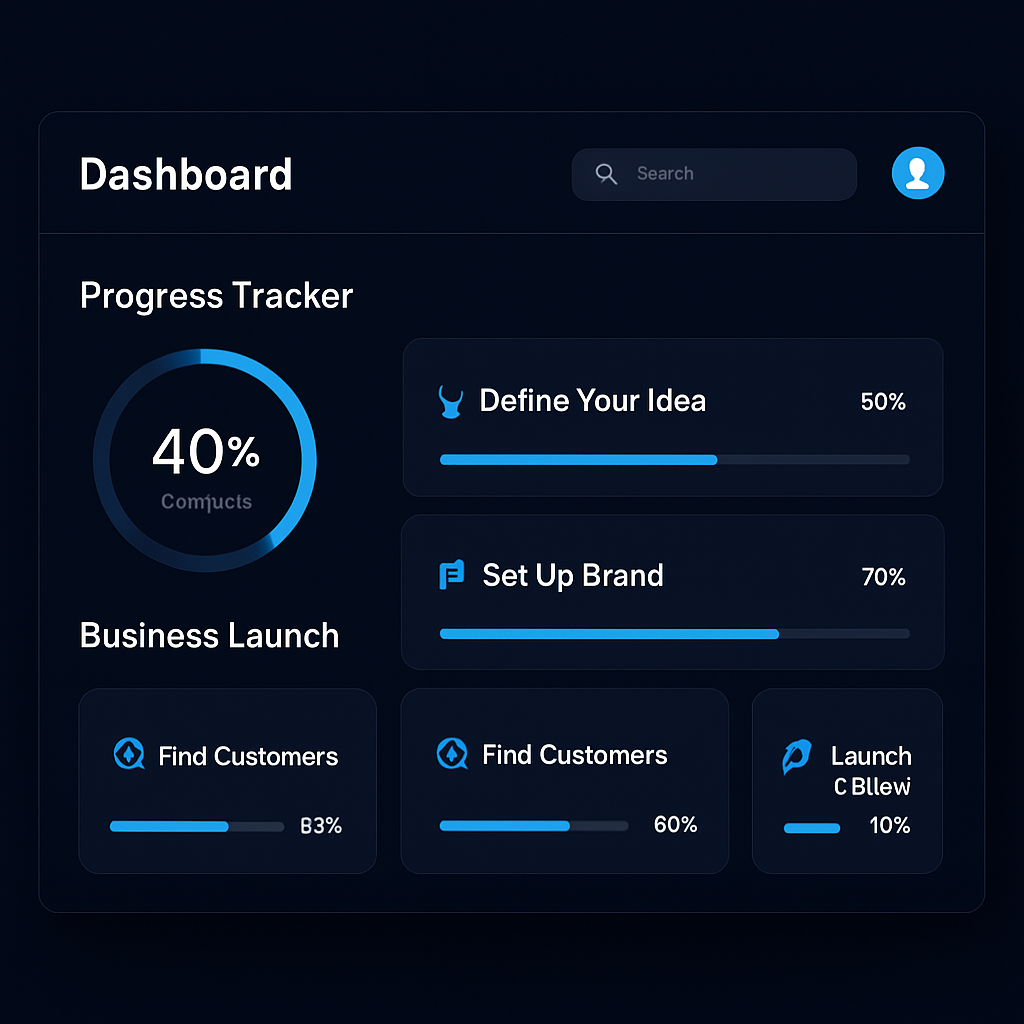
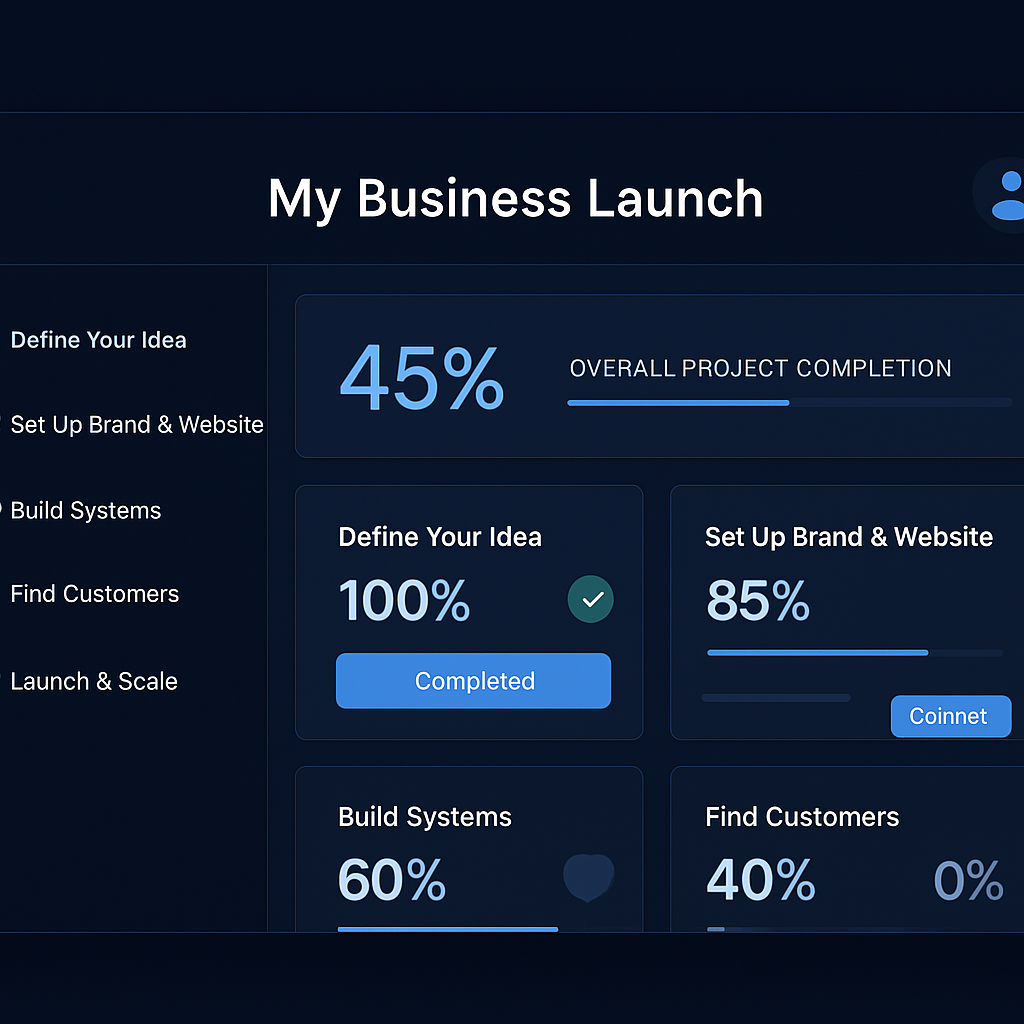
feat: revamp launch services CTA and update dashboard mockup

diff --git a/app/page.tsx b/app/page.tsx
@@ -897,32 +897,6 @@ function LaunchServices() {
         </div>
       </section>
 
-      {/* Hero Section */}
-      <PageHero
-        eyebrow="Business Launch"
-        title="Create your business from start to finish"
-        subtitle="We've distilled decades of entrepreneurial knowledge into a clear, structured system that takes you from idea to operating business in 7 days."
-      >
-        <div className="mt-10 flex flex-wrap gap-3">
-          <button
-            onClick={handleGetStarted}
-            className="inline-flex items-center rounded-lg bg-sky-400 px-6 py-3 text-sm font-medium text-[#0a1220] transition hover:bg-sky-300"
-          >
-            Start Your Launch
-            <ArrowRight className="ml-2 h-4 w-4" />
-          </button>
-          <button
-            onClick={() => {
-              // Scroll to learn more section
-              document.getElementById("learn-more")?.scrollIntoView({ behavior: "smooth" })
-            }}
-            className="inline-flex items-center rounded-lg border border-white/30 px-6 py-3 text-sm font-medium text-white transition hover:bg-white/5"
-          >
-            Learn More
-          </button>
-        </div>
-      </PageHero>
-
       {/* 5 Steps Section */}
       <section className="mx-auto max-w-5xl px-6 py-20">
         <div className="mb-16 text-center">
@@ -1034,73 +1008,20 @@ function LaunchServices() {
         </div>
       </section>
 
-      {/* Why LaunchWorks Section */}
+      {/* Final CTA Section */}
       <section className="border-t border-white/10 px-6 py-20">
-        <div className="mx-auto max-w-5xl">
-          <div className="grid gap-12 lg:grid-cols-2">
-            <div>
-              <p className="text-xs font-semibold uppercase tracking-widest text-sky-400">
-                Why Choose LeadsWork Launch
-              </p>
-              <h2 className="mt-3 text-3xl font-semibold leading-tight">
-                Stop Spinning Your Wheels
-              </h2>
-              <p className="mt-4 text-slate-400">
-                Most entrepreneurs fail because they're overwhelmed with options and don't know what to do next. LeadsWork Launch eliminates the guesswork with a proven system designed by founders who've been there.
-              </p>
-
-              <div className="mt-8 space-y-4">
-                {[
-                  "Structured roadmap that actually works",
-                  "Real-time progress tracking and milestones",
-                  "Expert guidance and community support",
-                  "Templates and resources at every step",
-                  "Connect with your first customers",
-                ].map((item) => (
-                  <div key={item} className="flex items-start gap-3">
-                    <Check className="h-5 w-5 flex-shrink-0 text-sky-400 mt-0.5" />
-                    <p className="text-slate-300">{item}</p>
-                  </div>
-                ))}
-              </div>
-
-              <button
-                onClick={handleGetStarted}
-                className="mt-8 inline-flex items-center rounded-lg bg-sky-400 px-6 py-3 text-sm font-medium text-[#0a1220] transition hover:bg-sky-300"
-              >
-                Start Your Launch Today
-                <ArrowRight className="ml-2 h-4 w-4" />
-              </button>
-            </div>
-
-            <div className="space-y-6">
-              <div className="rounded-2xl border border-white/10 bg-white/[0.03] p-8 backdrop-blur">
-                <p className="text-xs font-semibold uppercase tracking-widest text-sky-400">
-                  Key Stats
-                </p>
-                <div className="mt-6 space-y-4">
-                  <div>
-                    <p className="text-3xl font-bold text-sky-400">7 Days</p>
-                    <p className="mt-1 text-sm text-slate-400">Average time to launch</p>
-                  </div>
-                  <div>
-                    <p className="text-3xl font-bold text-sky-400">5 Steps</p>
-                    <p className="mt-1 text-sm text-slate-400">Proven launch system</p>
-                  </div>
-                  <div>
-                    <p className="text-3xl font-bold text-sky-400">1000+</p>
-                    <p className="mt-1 text-sm text-slate-400">Entrepreneurs launched</p>
-                  </div>
-                </div>
-              </div>
-
-              <div className="rounded-2xl border border-white/10 bg-gradient-to-br from-sky-400/10 to-sky-400/5 p-8 backdrop-blur">
-                <p className="font-semibold text-white">
-                  "LeadsWork's launch system gave me the clarity and structure I needed. I went from idea to first sale in less than a week."
-                </p>
-                <p className="mt-4 text-sm text-sky-300">— Jessica Chen, Founder</p>
-              </div>
-            </div>
+        <div className="mx-auto max-w-5xl text-center">
+          <h2 className="text-3xl font-semibold leading-tight md:text-4xl">
+            Start your business journey
+          </h2>
+          <div className="mt-8">
+            <button
+              onClick={handleGetStarted}
+              className="inline-flex items-center rounded-lg bg-sky-400 px-6 py-3 text-sm font-medium text-[#0a1220] transition hover:bg-sky-300"
+            >
+              Get Started
+              <ArrowRight className="ml-2 h-4 w-4" />
+            </button>
           </div>
         </div>
       </section>
